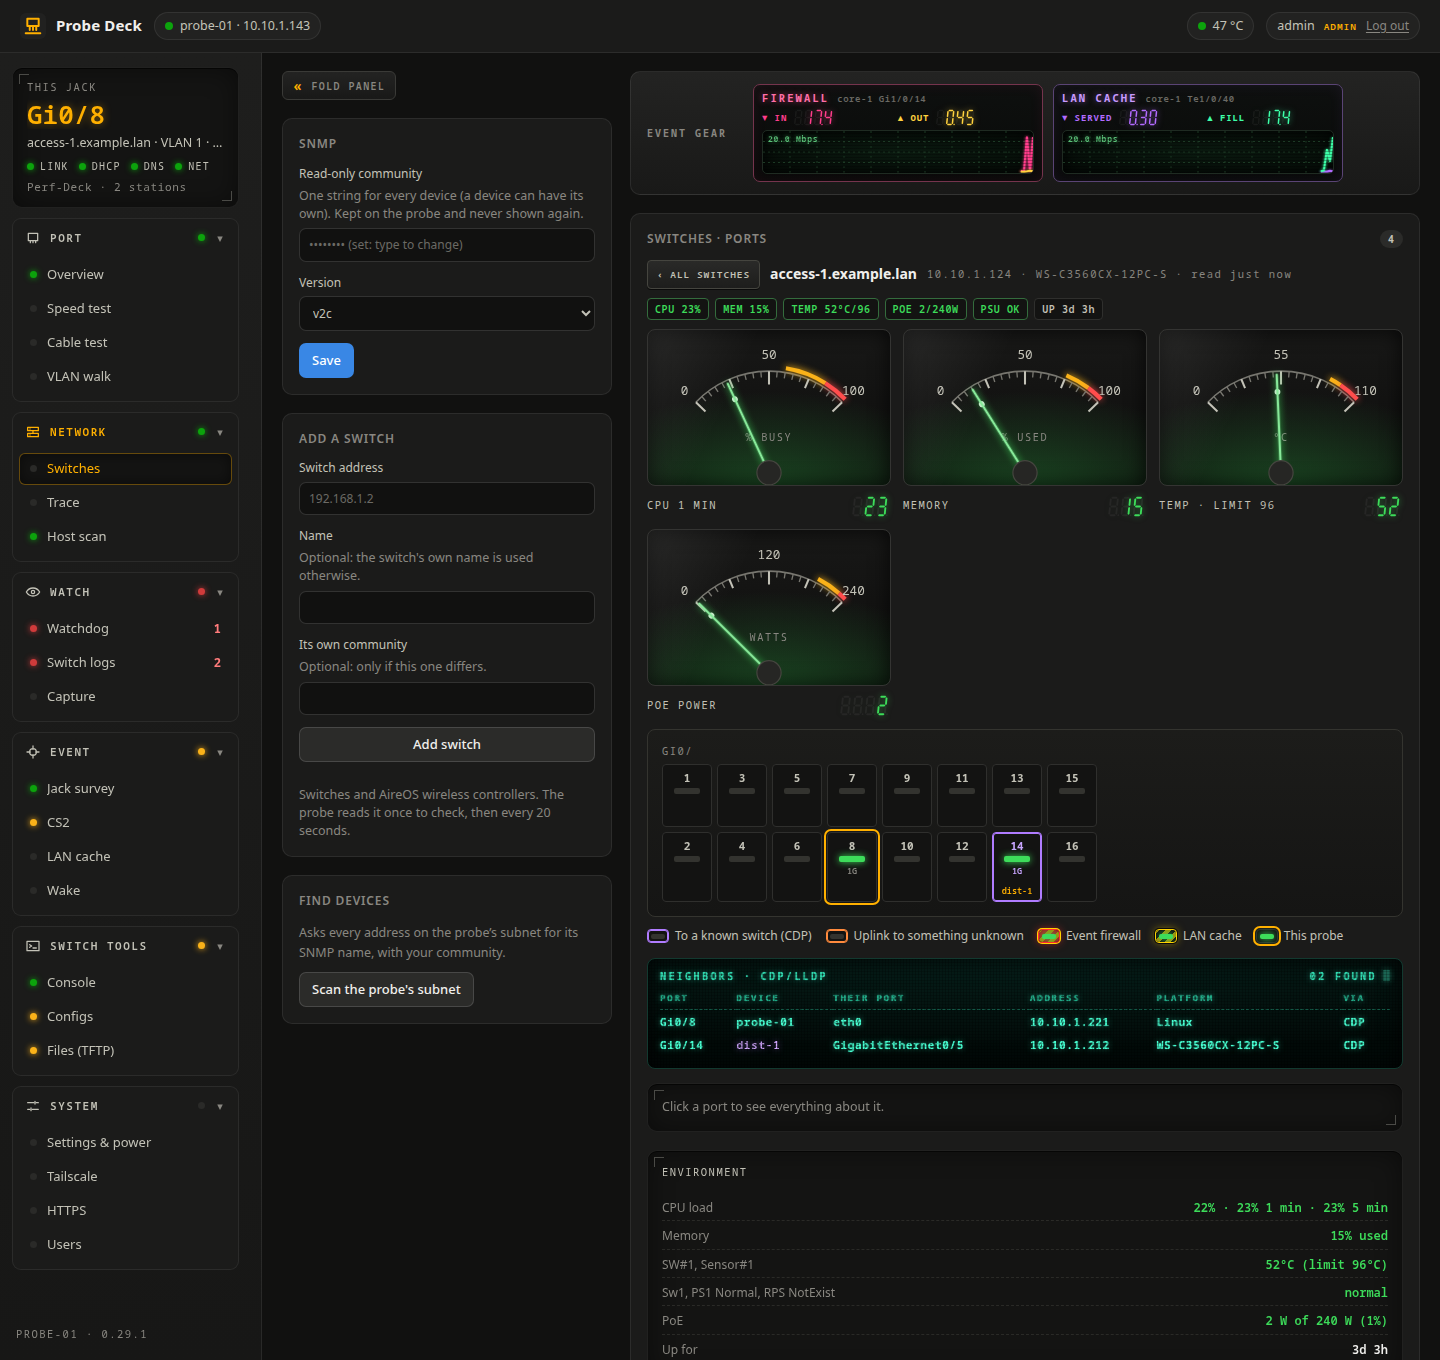
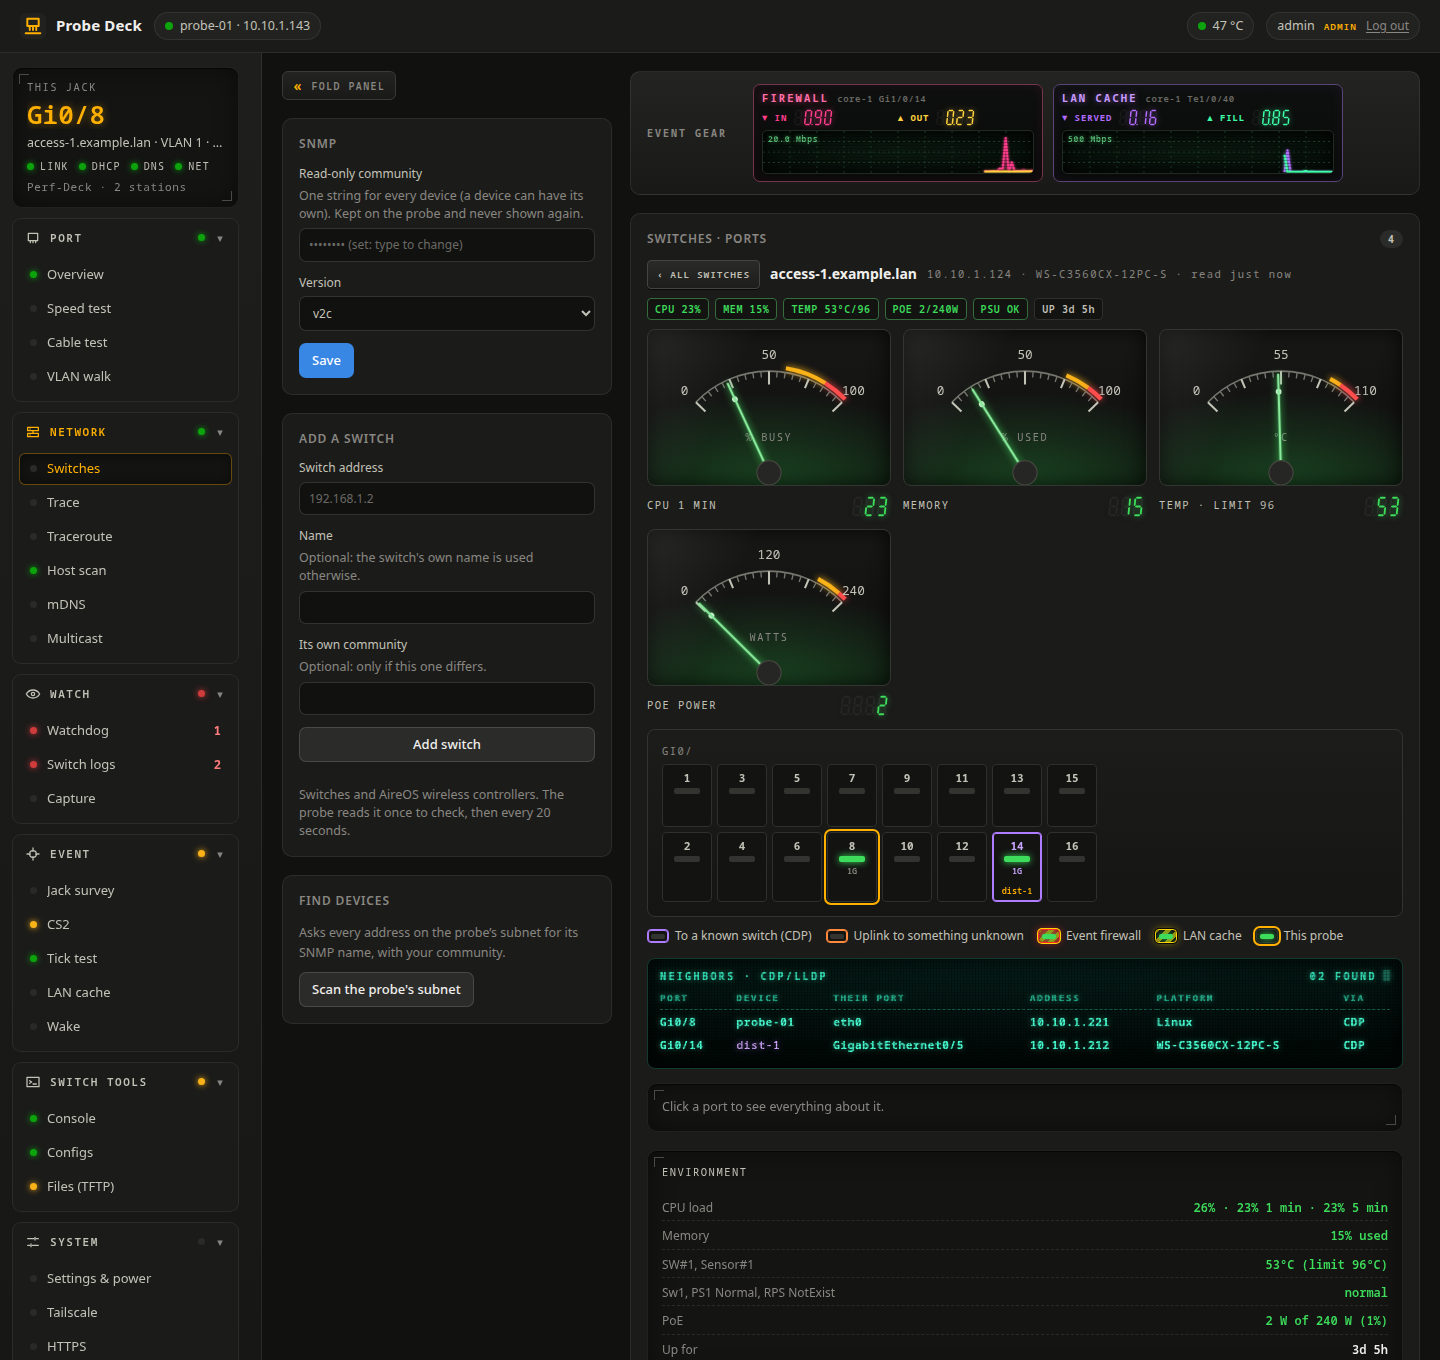
Docs: fresh screenshots of every page, with the new ones (Traceroute, mDNS, Multicast, On the wire, Tick test)
Made-up names and addresses; pages that need root or the probe's own
logs show sample data. The name-swap no longer garbles words starting
with 'frag'.

diff --git a/README.md b/README.md
@@ -19,14 +19,17 @@ The screenshots use made-up names and addresses (core-1, access-1, 10.10.x.x), a
 <table>
 <tr><td width="50%"><b>Speed test</b><br><img src="docs/speed.png" alt="Speed test: arc dials for download and upload, small dials, throughput chart"></td><td width="50%"><b>Cable test</b><br><img src="docs/cable.png" alt="Cable test: the switch TDR test, pair by pair, with pair C open 7 m away"></td></tr>
 <tr><td width="50%"><b>VLAN walk</b><br><img src="docs/vlans.png" alt="VLAN walk: DHCP, gateway, DNS and internet on six VLANs of a trunk"></td><td width="50%"><b>Switches</b><br><img src="docs/switches.png" alt="Switches: hall gauges, firewall and LAN cache monitors, bandwidth monitor and network stats"></td></tr>
-<tr><td width="50%"><b>Ports</b><br><img src="docs/ports.png" alt="The Ports drill-down: environment needles, front panel and the CDP neighbor table"></td><td width="50%"><b>Trace</b><br><img src="docs/trace.png" alt="A host trace: the path from probe-01 through four switches to an access point"></td></tr>
-<tr><td width="50%"><b>Host scan</b><br><img src="docs/hosts.png" alt="Host scan: every host on the subnet with its maker, name and open ports"></td><td width="50%"><b>Watchdog</b><br><img src="docs/watchdog.png" alt="Watchdog: a rogue DHCP server, broadcasts per second, spanning tree"></td></tr>
+<tr><td width="50%"><b>Ports</b><br><img src="docs/ports.png" alt="The Ports drill-down: environment needles, front panel and the CDP neighbor table"></td><td width="50%"><b>Trace</b><br><img src="docs/trace.png" alt="A host trace: the path from probe-01 through the switches to the host"></td></tr>
+<tr><td width="50%"><b>Traceroute</b><br><img src="docs/mtr.png" alt="Traceroute: every hop probed once a second, with loss, latency and a strip of the last 40 probes"></td><td width="50%"><b>Host scan</b><br><img src="docs/hosts.png" alt="Host scan: every host with its maker, name, smart-device type and open ports"></td></tr>
+<tr><td width="50%"><b>mDNS</b><br><img src="docs/mdns.png" alt="mDNS: services announced on the LAN, grouped by type"></td><td width="50%"><b>Multicast</b><br><img src="docs/mcast.png" alt="Multicast: the IGMP querier, groups with their traffic, and a join test"></td></tr>
+<tr><td width="50%"><b>Watchdog</b><br><img src="docs/watchdog.png" alt="Watchdog: a rogue DHCP server, broadcasts per second, spanning tree"></td><td width="50%"><b>On the wire</b><br><img src="docs/wire.png" alt="On the wire: the probe adapter, flooding, loud senders, switch protocols, ICMP notices"></td></tr>
 <tr><td width="50%"><b>Switch logs</b><br><img src="docs/logs.png" alt="Switch logs: syslog from the switches, coloured by severity"></td><td width="50%"><b>Capture</b><br><img src="docs/capture.png" alt="Capture: tcpdump with a filter, live packets and kept .pcap files"></td></tr>
-<tr><td width="50%"><b>Jack survey</b><br><img src="docs/survey.png" alt="Jack survey: every seat in a hall with its port, link, DHCP time, gateway and verdict"></td><td width="50%"><b>CS2</b><br><img src="docs/cs2.png" alt="CS2: match readiness, ping, jitter and loss to each Perf-Deck node"></td></tr>
-<tr><td width="50%"><b>LAN cache</b><br><img src="docs/cache.png" alt="LAN cache: every game download name pointing at the cache, heartbeat and a HIT"></td><td width="50%"><b>Wake</b><br><img src="docs/wake.png" alt="Wake-on-LAN: saved machines with up/down lights"></td></tr>
-<tr><td width="50%"><b>Console</b><br><img src="docs/console.png" alt="The green CRT-style web console on a Cisco 3560"></td><td width="50%"><b>Configs</b><br><img src="docs/configs.png" alt="Configs: running-config versions and a coloured diff"></td></tr>
-<tr><td width="50%"><b>Files (TFTP)</b><br><img src="docs/files.png" alt="Files: IOS images and configs served over TFTP, with the commands to paste"></td><td width="50%"><b>HTTPS</b><br><img src="docs/https.png" alt="The HTTPS page: the certificate, its expiry and fingerprint"></td></tr>
-<tr><td width="50%"><b>Users</b><br><img src="docs/users.png" alt="The Users page: accounts and roles"></td><td width="50%"><b>Log in</b><br><img src="docs/login.png" alt="The login screen"></td></tr>
+<tr><td width="50%"><b>Jack survey</b><br><img src="docs/survey.png" alt="Jack survey: every seat in a hall with its port, link, time to online, gateway and verdict"></td><td width="50%"><b>CS2</b><br><img src="docs/cs2.png" alt="CS2: match readiness, ping, jitter and loss to each Perf-Deck node"></td></tr>
+<tr><td width="50%"><b>Tick test</b><br><img src="docs/tick.png" alt="Tick test: game-rate UDP to a reflector, every reply charted, graded for Counter-Strike"></td><td width="50%"><b>LAN cache</b><br><img src="docs/cache.png" alt="LAN cache: every game download name pointing at the cache, heartbeat and a HIT"></td></tr>
+<tr><td width="50%"><b>Wake</b><br><img src="docs/wake.png" alt="Wake-on-LAN: saved machines with up/down lights"></td><td width="50%"><b>Console</b><br><img src="docs/console.png" alt="The green CRT-style web console on a Cisco 3560"></td></tr>
+<tr><td width="50%"><b>Configs</b><br><img src="docs/configs.png" alt="Configs: running-config versions and a coloured diff"></td><td width="50%"><b>Files (TFTP)</b><br><img src="docs/files.png" alt="Files: IOS images and configs served over TFTP, with the commands to paste"></td></tr>
+<tr><td width="50%"><b>HTTPS</b><br><img src="docs/https.png" alt="The HTTPS page: the certificate, its expiry and fingerprint"></td><td width="50%"><b>Users</b><br><img src="docs/users.png" alt="The Users page: accounts and roles"></td></tr>
+<tr><td width="50%"><b>Log in</b><br><img src="docs/login.png" alt="The login screen"></td><td></td></tr>
 </table>
 
 ## Features
